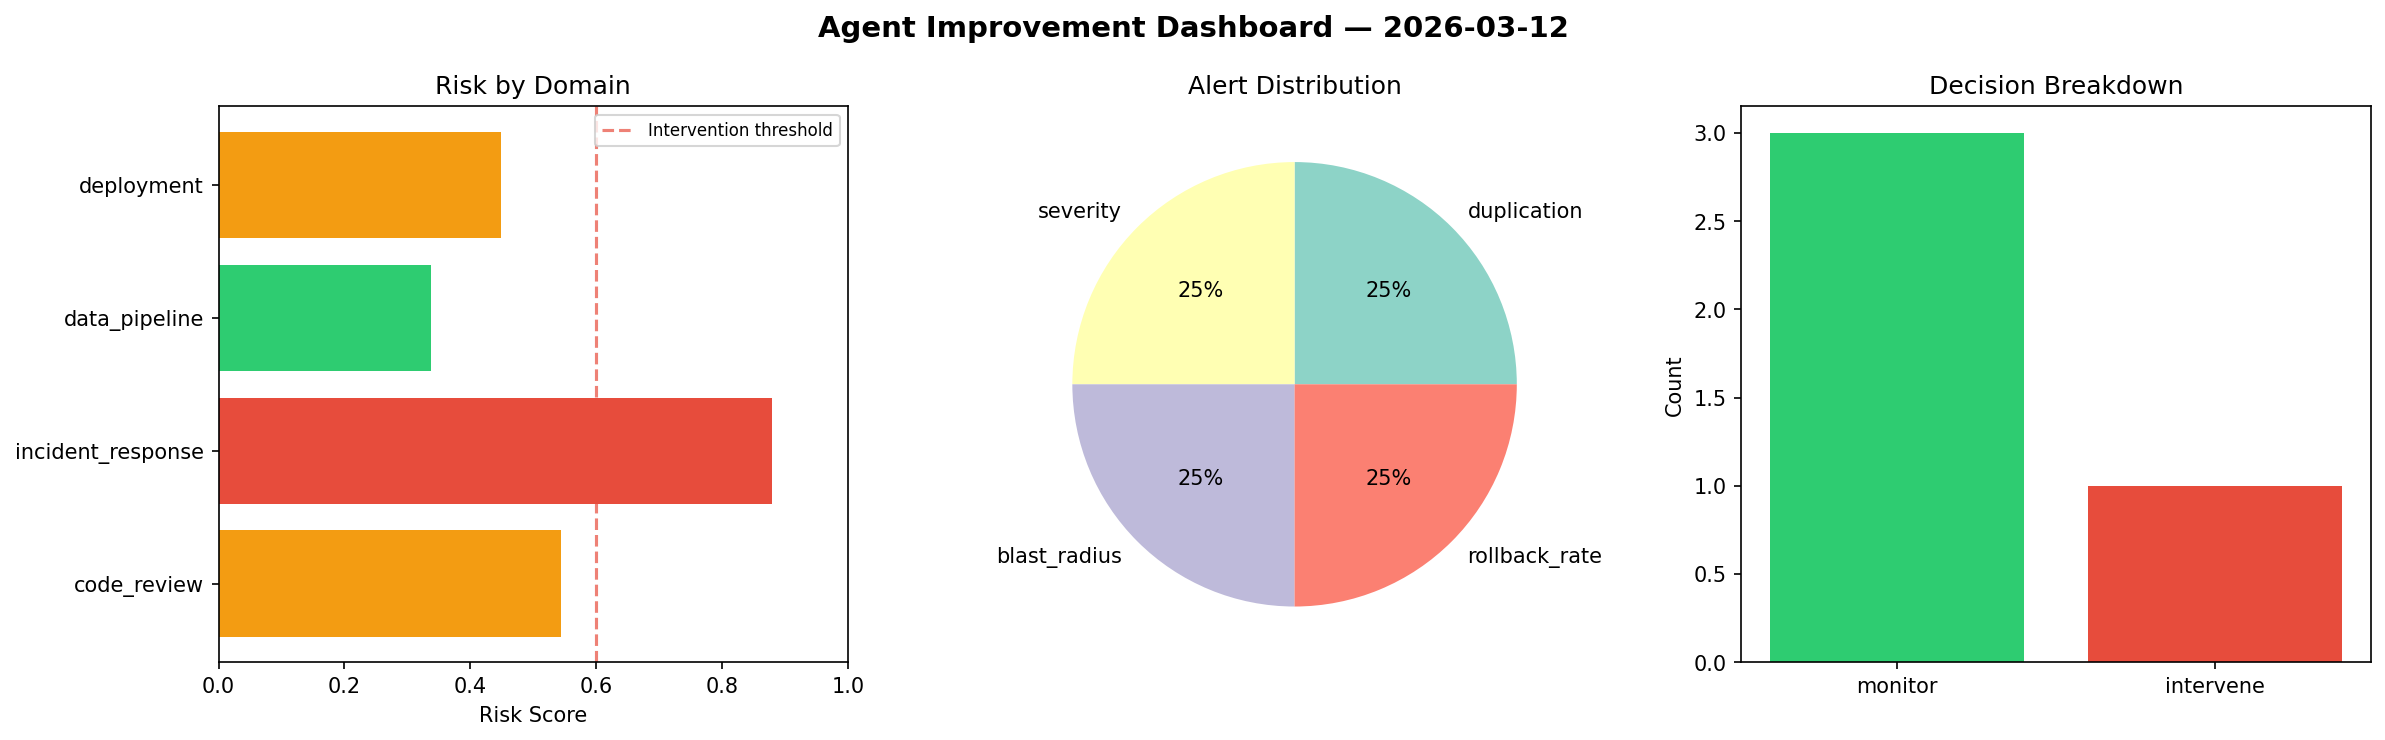
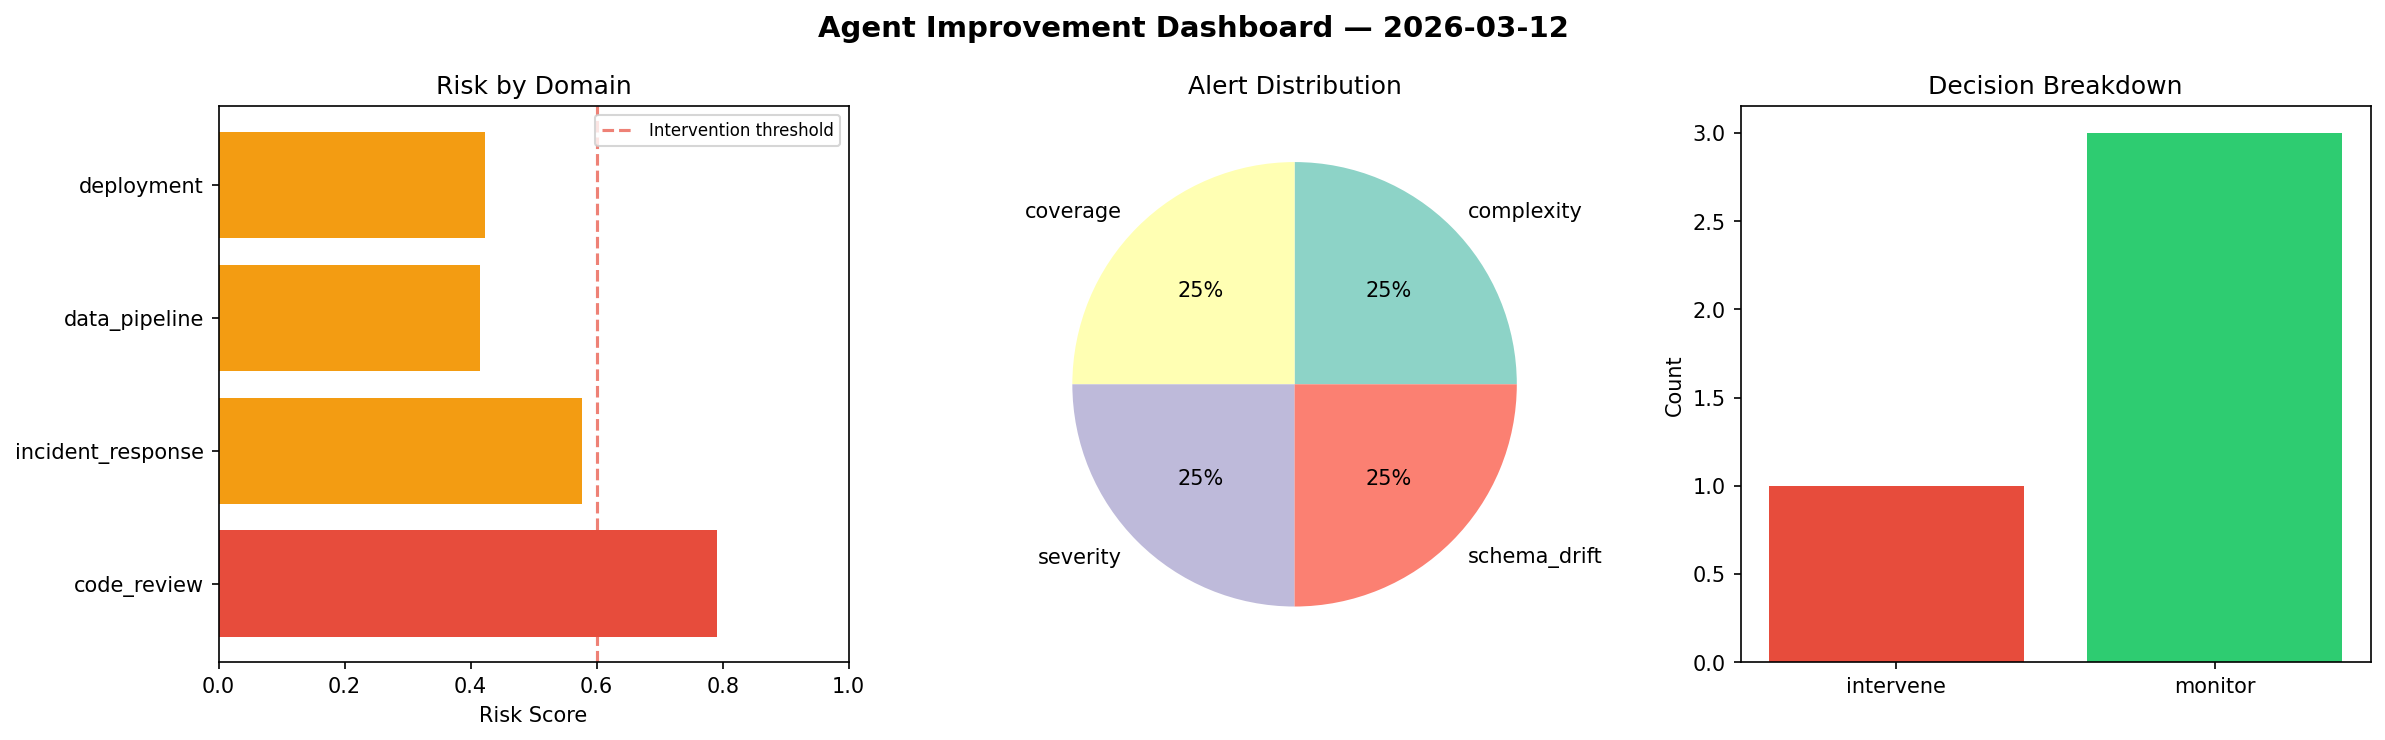
agent-improvement: daily cycle 2026-03-12T20:51

diff --git a/logs/2026-03-12.md b/logs/2026-03-12.md
@@ -1,6 +1,6 @@
 # Agent Improvement Report — 2026-03-12
 
-**Cycle ID:** `b7fab02e` | **Avg Risk:** 0.5523 | **Interventions:** 1/4
+**Cycle ID:** `0ca6f6e8` | **Avg Risk:** 0.5514 | **Interventions:** 1/4
 
 ![Dashboard](2026-03-12_dashboard.png)
 
@@ -10,18 +10,18 @@
 
 | Domain | Risk Score | Decision | Alerts |
 |--------|-----------|----------|--------|
-| code_review | 0.5434 | monitor | duplication |
-| incident_response | 0.8788 | intervene | severity, blast_radius |
-| data_pipeline | 0.3381 | monitor | none |
-| deployment | 0.4488 | monitor | rollback_rate |
+| code_review | 0.7916 | intervene | complexity, coverage |
+| incident_response | 0.5762 | monitor | severity |
+| data_pipeline | 0.4148 | monitor | schema_drift |
+| deployment | 0.4231 | monitor | none |
 
 ## Delta vs Yesterday
 
 | Domain | Today | Yesterday | Change |
 |--------|-------|-----------|--------|
-| code_review | 0.5434 | 0.3174 | 📈 71.2% |
-| incident_response | 0.8788 | 0.5522 | 📈 59.1% |
-| data_pipeline | 0.3381 | 0.6425 | 📉 -47.4% |
-| deployment | 0.4488 | 0.4127 | 📈 8.7% |
+| code_review | 0.7916 | 0.3174 | 📈 149.4% |
+| incident_response | 0.5762 | 0.5522 | 📈 4.3% |
+| data_pipeline | 0.4148 | 0.6425 | 📉 -35.4% |
+| deployment | 0.4231 | 0.4127 | 📈 2.5% |
 
 **Refinement:** `{'adjustment': 'maintain', 'trend': 'improving', 'window': 4}`
